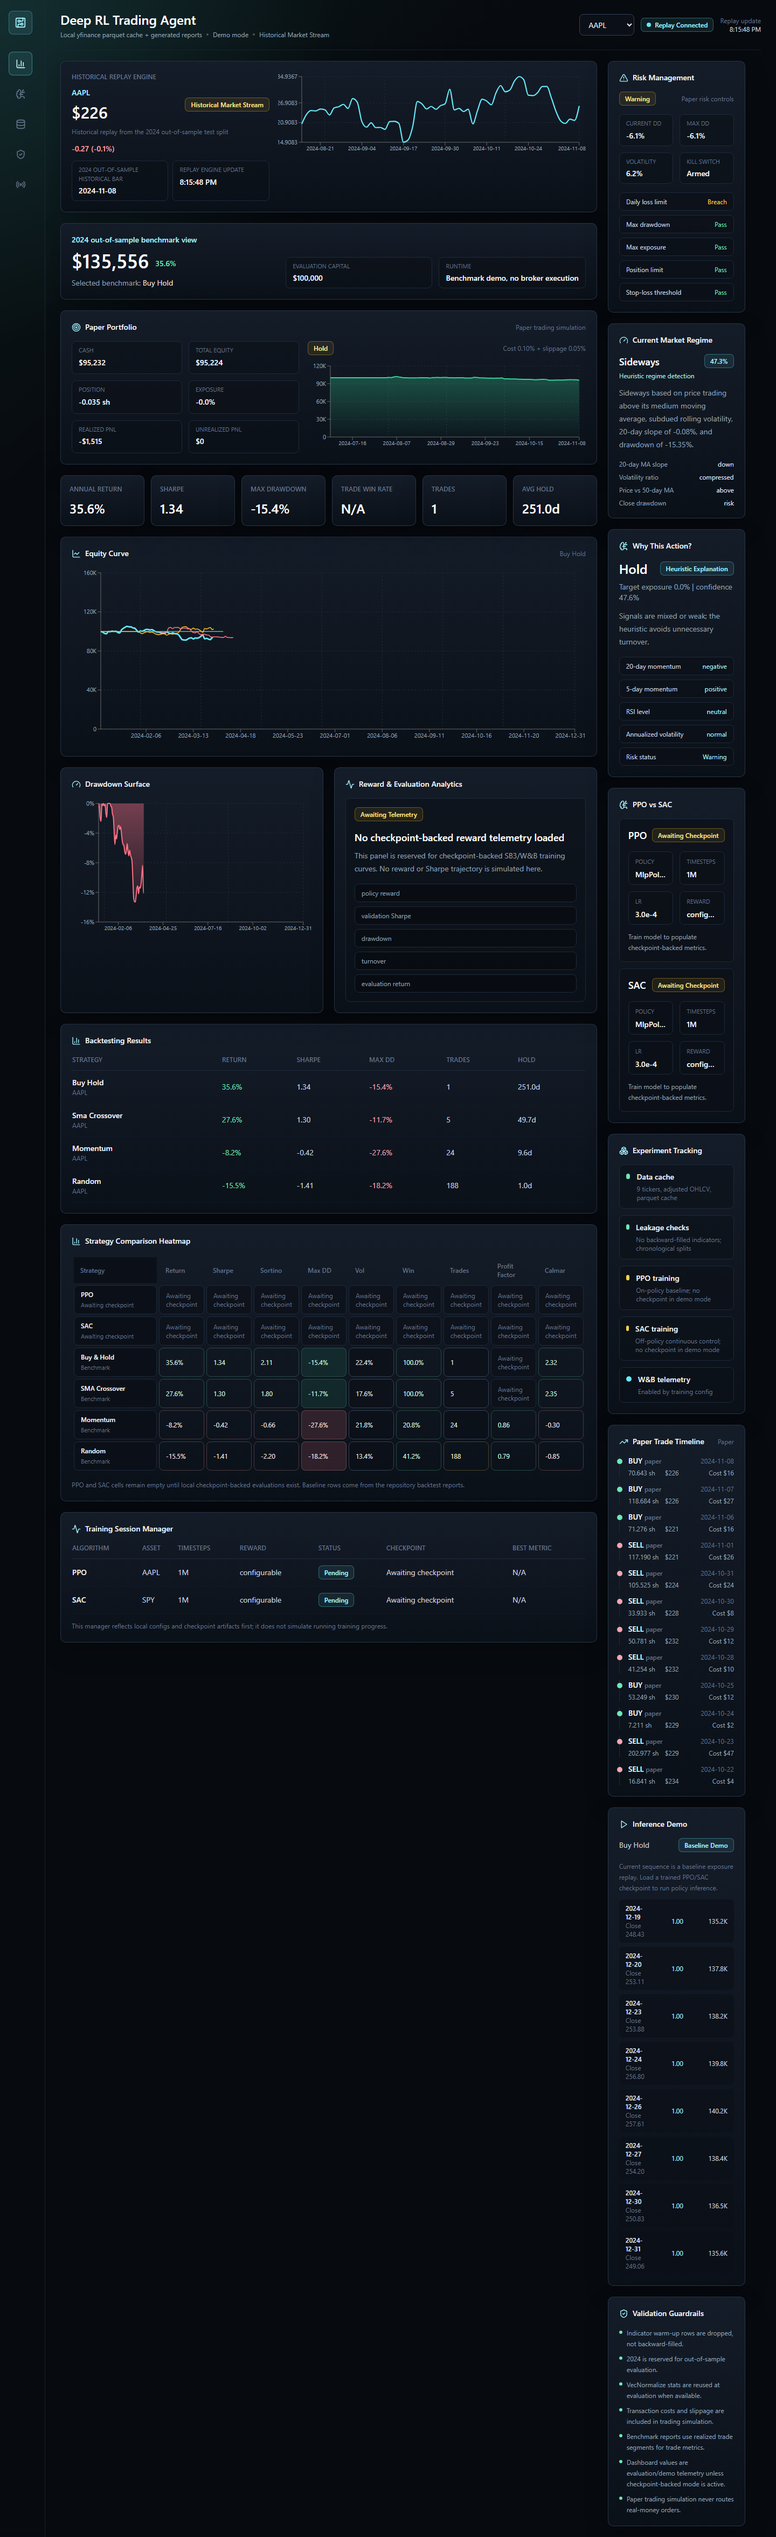
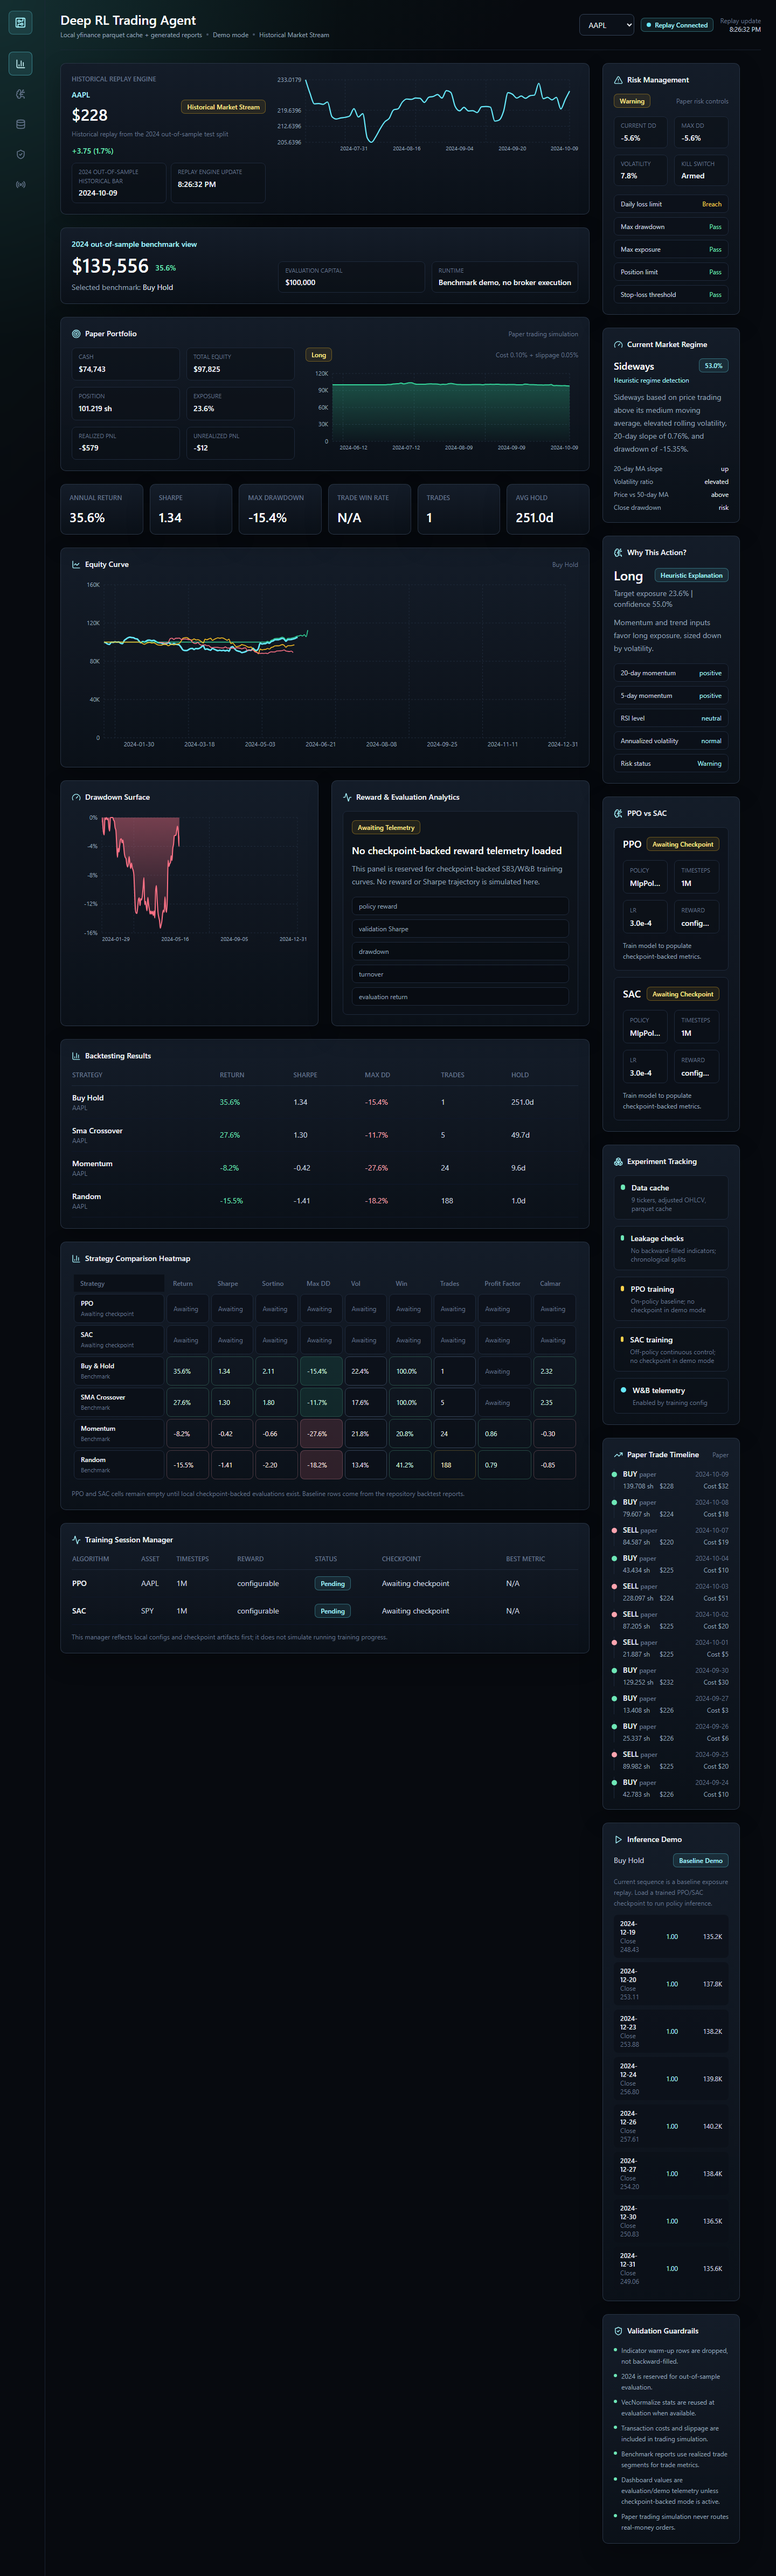
Polish replay dashboard presentation

diff --git a/frontend/src/App.tsx b/frontend/src/App.tsx
@@ -18,8 +18,6 @@ import {
 import {
   Area,
   AreaChart,
-  Bar,
-  BarChart,
   CartesianGrid,
   Line,
   LineChart as ReLineChart,
@@ -165,8 +163,8 @@ export function App() {
           lastUpdate={lastUpdate}
         />
         {data && marketFeed && paperPortfolio && risk && marketRegime && agentSignal ? (
-          <div className="mt-5 grid gap-5 xl:grid-cols-[1.3fr_0.7fr]">
-            <section className="space-y-5">
+          <div className="mt-6 grid gap-6 xl:grid-cols-[1.3fr_0.7fr]">
+            <section className="space-y-6 pb-10">
               <MarketReplayPanel feed={marketFeed} />
               <PortfolioHeader data={data} />
               <PaperPortfolioPanel portfolio={paperPortfolio} />
@@ -174,10 +172,10 @@ export function App() {
               <Panel title="Equity Curve" icon={<LineChart size={17} />} action={data.portfolio.strategy}>
                 <div className="h-[330px]">
                   <ResponsiveContainer width="100%" height="100%">
-                    <ReLineChart data={data.equityCurve} margin={{ top: 10, right: 20, left: 0, bottom: 0 }}>
+                    <ReLineChart data={data.equityCurve} margin={{ top: 12, right: 24, left: 2, bottom: 4 }}>
                       <CartesianGrid stroke="#1F2B3B" strokeDasharray="3 3" />
-                      <XAxis dataKey="date" tick={{ fill: "#94A3B8", fontSize: 11 }} minTickGap={30} />
-                      <YAxis tick={{ fill: "#94A3B8", fontSize: 11 }} tickFormatter={formatCompact} width={54} />
+                      <XAxis dataKey="date" tick={{ fill: "#94A3B8", fontSize: 11 }} minTickGap={54} tickLine={false} axisLine={false} />
+                      <YAxis tick={{ fill: "#94A3B8", fontSize: 11 }} tickFormatter={formatCompact} width={58} tickLine={false} axisLine={false} />
                       <Tooltip content={<ChartTooltip />} />
                       {Object.keys(chartColors).map((strategy) => (
                         <Line
@@ -194,11 +192,11 @@ export function App() {
                   </ResponsiveContainer>
                 </div>
               </Panel>
-              <div className="grid gap-5 lg:grid-cols-2">
+              <div className="grid gap-6 lg:grid-cols-2">
                 <Panel title="Drawdown Surface" icon={<Gauge size={17} />}>
                   <div className="h-[260px]">
                     <ResponsiveContainer width="100%" height="100%">
-                      <AreaChart data={data.drawdownCurve} margin={{ top: 10, right: 16, left: -10, bottom: 0 }}>
+                      <AreaChart data={data.drawdownCurve} margin={{ top: 12, right: 18, left: -4, bottom: 4 }}>
                         <defs>
                           <linearGradient id="drawdownFill" x1="0" y1="0" x2="0" y2="1">
                             <stop offset="0%" stopColor="#FB7185" stopOpacity={0.7} />
@@ -206,8 +204,8 @@ export function App() {
                           </linearGradient>
                         </defs>
                         <CartesianGrid stroke="#1F2B3B" strokeDasharray="3 3" />
-                        <XAxis dataKey="date" tick={{ fill: "#94A3B8", fontSize: 10 }} minTickGap={32} />
-                        <YAxis tick={{ fill: "#94A3B8", fontSize: 11 }} tickFormatter={(v) => `${(Number(v) * 100).toFixed(0)}%`} />
+                        <XAxis dataKey="date" tick={{ fill: "#94A3B8", fontSize: 10 }} minTickGap={58} tickLine={false} axisLine={false} />
+                        <YAxis tick={{ fill: "#94A3B8", fontSize: 11 }} tickFormatter={(v) => `${(Number(v) * 100).toFixed(0)}%`} tickLine={false} axisLine={false} />
                         <Tooltip content={<ChartTooltip percentKeys={["drawdown"]} />} />
                         <Area type="monotone" dataKey="drawdown" stroke="#FB7185" fill="url(#drawdownFill)" strokeWidth={2} />
                       </AreaChart>
@@ -222,7 +220,7 @@ export function App() {
               <StrategyHeatmapPanel data={data} />
               <TrainingSessionsPanel sessions={trainingSessions} />
             </section>
-            <aside className="space-y-5">
+            <aside className="space-y-6 pb-10">
               <RiskPanel risk={risk} />
               <RegimePanel regime={marketRegime} />
               <ExplainabilityPanel signal={agentSignal} />
@@ -375,7 +373,7 @@ function MarketReplayPanel({ feed }: { feed: MarketFeed }) {
   const isHistorical = feed.sourceKind === "historical_replay";
   return (
     <section className="panel p-5">
-      <div className="grid gap-4 lg:grid-cols-[0.9fr_1.4fr]">
+      <div className="grid gap-5 lg:grid-cols-[0.9fr_1.4fr]">
         <div>
           <div className="mb-3 text-xs font-semibold uppercase text-slate-500">
             {isHistorical ? "Historical Replay Engine" : "Delayed Market Snapshot Mode"}
@@ -399,10 +397,10 @@ function MarketReplayPanel({ feed }: { feed: MarketFeed }) {
         </div>
         <div className="h-[160px]">
           <ResponsiveContainer width="100%" height="100%">
-            <ReLineChart data={feed.history} margin={{ top: 8, right: 12, left: -10, bottom: 0 }}>
+            <ReLineChart data={feed.history} margin={{ top: 10, right: 16, left: -4, bottom: 4 }}>
               <CartesianGrid stroke="#1F2B3B" strokeDasharray="3 3" />
-              <XAxis dataKey="time" tick={{ fill: "#94A3B8", fontSize: 10 }} minTickGap={26} />
-              <YAxis tick={{ fill: "#94A3B8", fontSize: 11 }} width={54} domain={["dataMin", "dataMax"]} />
+              <XAxis dataKey="time" tick={{ fill: "#94A3B8", fontSize: 10 }} minTickGap={44} tickLine={false} axisLine={false} />
+              <YAxis tick={{ fill: "#94A3B8", fontSize: 11 }} width={58} domain={["dataMin", "dataMax"]} tickLine={false} axisLine={false} />
               <Tooltip content={<ChartTooltip />} />
               <Line type="monotone" dataKey="price" stroke="#67E8F9" strokeWidth={2.2} dot={false} name="Price" />
             </ReLineChart>
@@ -417,7 +415,7 @@ function PaperPortfolioPanel({ portfolio }: { portfolio: PaperPortfolio }) {
   const pnl = portfolio.realizedPnl + portfolio.unrealizedPnl;
   return (
     <Panel title="Paper Portfolio" icon={<Target size={17} />} action={portfolio.mode}>
-      <div className="grid gap-4 lg:grid-cols-[0.9fr_1.1fr]">
+      <div className="grid gap-5 lg:grid-cols-[0.9fr_1.1fr]">
         <div className="grid grid-cols-2 gap-3">
           <MiniStat label="Cash" value={formatCurrency(portfolio.cash)} />
           <MiniStat label="Total equity" value={formatCurrency(portfolio.totalEquity)} />
@@ -435,7 +433,7 @@ function PaperPortfolioPanel({ portfolio }: { portfolio: PaperPortfolio }) {
           </div>
           <div className="h-[170px]">
             <ResponsiveContainer width="100%" height="100%">
-              <AreaChart data={portfolio.equityCurve} margin={{ top: 8, right: 12, left: -8, bottom: 0 }}>
+              <AreaChart data={portfolio.equityCurve} margin={{ top: 10, right: 16, left: -4, bottom: 4 }}>
                 <defs>
                   <linearGradient id="paperEquity" x1="0" y1="0" x2="0" y2="1">
                     <stop offset="0%" stopColor="#34D399" stopOpacity={0.5} />
@@ -443,8 +441,8 @@ function PaperPortfolioPanel({ portfolio }: { portfolio: PaperPortfolio }) {
                   </linearGradient>
                 </defs>
                 <CartesianGrid stroke="#1F2B3B" strokeDasharray="3 3" />
-                <XAxis dataKey="time" tick={{ fill: "#94A3B8", fontSize: 10 }} minTickGap={26} />
-                <YAxis tick={{ fill: "#94A3B8", fontSize: 11 }} tickFormatter={formatCompact} width={50} />
+                <XAxis dataKey="time" tick={{ fill: "#94A3B8", fontSize: 10 }} minTickGap={46} tickLine={false} axisLine={false} />
+                <YAxis tick={{ fill: "#94A3B8", fontSize: 11 }} tickFormatter={formatCompact} width={54} tickLine={false} axisLine={false} />
                 <Tooltip content={<ChartTooltip />} />
                 <Area type="monotone" dataKey="equity" stroke="#34D399" fill="url(#paperEquity)" strokeWidth={2} name="Paper Equity" />
               </AreaChart>
@@ -545,7 +543,7 @@ function StrategyHeatmapPanel({ data }: { data: DashboardData }) {
   return (
     <Panel title="Strategy Comparison Heatmap" icon={<BarChart3 size={17} />}>
       <div className="overflow-x-auto">
-        <table className="w-full min-w-[880px] border-separate border-spacing-1 text-left text-xs">
+        <table className="w-full min-w-[940px] border-separate border-spacing-1 text-left text-xs">
           <thead className="text-slate-500">
             <tr>
               <th className="sticky left-0 z-10 bg-graphite-900 px-3 py-2 font-medium">Strategy</th>
@@ -567,7 +565,7 @@ function StrategyHeatmapPanel({ data }: { data: DashboardData }) {
                   const value = row.metrics[metric];
                   return (
                     <td key={`${row.strategy}-${metric}`} className={`rounded-lg border px-3 py-2 ${heatmapCellClass(metric, value)}`}>
-                      {value === null ? <span className="text-slate-500">Awaiting checkpoint</span> : metricDisplay(metric, value)}
+                      {value === null ? <span className="text-slate-500">Awaiting</span> : metricDisplay(metric, value)}
                     </td>
                   );
                 })}
@@ -692,28 +690,6 @@ function ExperimentPanel({ data }: { data: DashboardData }) {
   );
 }
 
-function TradeTimeline({ events }: { events: DashboardData["tradeTimeline"] }) {
-  return (
-    <Panel title="Trade Timeline" icon={<TrendingUp size={17} />}>
-      <div className="space-y-3">
-        {events.map((event) => (
-          <div key={`${event.date}-${event.equity}`} className="relative border-l border-slate-800 pl-4">
-            <div className="absolute -left-[5px] top-1.5 h-2.5 w-2.5 rounded-full bg-cyan-300" />
-            <div className="flex items-center justify-between gap-3">
-              <div className="text-sm font-medium text-slate-100">{event.side}</div>
-              <div className="text-xs text-slate-500">{event.date}</div>
-            </div>
-            <div className="mt-1 flex justify-between text-xs text-slate-400">
-              <span>Position {event.position.toFixed(2)}</span>
-              <span>{formatCurrency(event.equity)}</span>
-            </div>
-          </div>
-        ))}
-      </div>
-    </Panel>
-  );
-}
-
 function PaperTradeTimeline({ trades }: { trades: PaperPortfolio["trades"] }) {
   return (
     <Panel title="Paper Trade Timeline" icon={<TrendingUp size={17} />} action="paper">
@@ -803,10 +779,10 @@ function TrainingAnalyticsPanel({ data }: { data: DashboardData }) {
   return (
     <div className="h-[260px]">
       <ResponsiveContainer width="100%" height="100%">
-        <ReLineChart data={analytics.points} margin={{ top: 10, right: 16, left: -10, bottom: 0 }}>
+        <ReLineChart data={analytics.points} margin={{ top: 12, right: 18, left: -4, bottom: 4 }}>
           <CartesianGrid stroke="#1F2B3B" strokeDasharray="3 3" />
-          <XAxis dataKey="step" tick={{ fill: "#94A3B8", fontSize: 10 }} tickFormatter={formatCompact} />
-          <YAxis tick={{ fill: "#94A3B8", fontSize: 11 }} />
+          <XAxis dataKey="step" tick={{ fill: "#94A3B8", fontSize: 10 }} tickFormatter={formatCompact} tickLine={false} axisLine={false} />
+          <YAxis tick={{ fill: "#94A3B8", fontSize: 11 }} tickLine={false} axisLine={false} />
           <Tooltip content={<ChartTooltip />} />
           <Line type="monotone" dataKey="ppoReward" stroke="#67E8F9" strokeWidth={2} dot={false} name="PPO Reward" />
           <Line type="monotone" dataKey="sacReward" stroke="#34D399" strokeWidth={2} dot={false} name="SAC Reward" />

diff --git a/README.md b/README.md
@@ -83,20 +83,74 @@ npm run dev
 
 Open `http://127.0.0.1:5173`.
 
-![Dashboard overview with Historical Replay Engine](docs/assets/dashboard-overview.png)
-
-Mobile-responsive view:
-
-![Dashboard mobile Historical Replay view](docs/assets/dashboard-mobile.png)
+<p align="center">
+  <img src="docs/assets/dashboard-overview.png" alt="Dashboard overview with Historical Replay Engine" width="920">
+</p>
 
 The dashboard includes a Historical Replay Engine, paper portfolio, equity curves, drawdown visualization, risk management guardrails, market regime detection, action explainability, PPO/SAC readiness, training session manager, strategy heatmap, experiment tracking, trade timeline, validation guardrails, and inference demo mode. In demo mode, panels are explicitly based on benchmark reports and local cached data rather than trained model claims.
 
 The product layer is deliberately not a real-money trading system:
 
 - `Historical Market Stream` replays cached 2024 out-of-sample market bars through the dashboard update loop.
-- `Delayed Market Snapshot` can be attempted with yfinance by setting `RL_TRADING_FEED_MODE=snapshot`; historical replay remains the default for reproducible demos.
+- `Delayed Market Snapshot` can be attempted with yfinance by setting `RL_TRADING_FEED_MODE=snapshot`; `RL_TRADING_FEED_MODE=live` is accepted as a compatibility alias but is still labeled as delayed snapshot mode in the UI.
 - `Paper trading simulation` applies transaction costs and slippage, tracks exposure and PnL, and blocks additional exposure when risk limits are breached.
 - PPO/SAC performance panels show `Awaiting checkpoint` until trained model artifacts and evaluation outputs exist.
+
+## Visual Walkthrough
+
+### Historical Replay Engine
+
+The market panel names the data basis directly: cached 2024 out-of-sample bars replayed through the product event loop. It does not present historical data as current-market streaming.
+
+<p align="center">
+  <img src="docs/assets/dashboard-replay-engine.png" alt="Historical Replay Engine panel" width="860">
+</p>
+
+### Paper Portfolio
+
+The paper portfolio shows cash, position, exposure, realized/unrealized PnL, total equity, costs, slippage, and simulated fills. It never implies broker execution.
+
+<p align="center">
+  <img src="docs/assets/dashboard-paper-portfolio.png" alt="Paper portfolio panel" width="860">
+</p>
+
+### Risk And Regime
+
+Risk guardrails, regime detection, and action explanation are displayed as engineering controls and heuristic diagnostics, not profitability claims.
+
+<p align="center">
+  <img src="docs/assets/dashboard-risk-regime.png" alt="Risk management, regime detection, and explainability panels" width="860">
+</p>
+
+### Strategy Comparison Heatmap
+
+PPO and SAC remain `Awaiting checkpoint` until real checkpoint-backed evaluations are available; baseline rows come from generated reports.
+
+<p align="center">
+  <img src="docs/assets/dashboard-strategy-heatmap.png" alt="Strategy comparison heatmap" width="860">
+</p>
+
+### PPO vs SAC
+
+The model comparison panel surfaces checkpoint readiness without inventing policy performance.
+
+<p align="center">
+  <img src="docs/assets/dashboard-ppo-sac.png" alt="PPO versus SAC readiness panel" width="620">
+</p>
+
+### Training Session Manager
+
+Training sessions are derived from local configs and checkpoint artifacts; the dashboard does not simulate running training progress.
+
+<p align="center">
+  <img src="docs/assets/dashboard-training-session-manager.png" alt="Training session manager" width="860">
+</p>
+
+### Mobile View
+
+<p align="center">
+  <img src="docs/assets/dashboard-mobile.png" alt="Mobile Historical Replay dashboard view" width="360">
+</p>
 
 ## Quick Start
 

diff --git a/docs/ARCHITECTURE.md b/docs/ARCHITECTURE.md
@@ -32,7 +32,7 @@ flowchart LR
 - `TradingEnv` exposes a continuous target exposure action, which lets PPO and SAC learn position sizing instead of selecting from a tiny discrete menu.
 - Observations include only current and past data. Rolling indicators are computed forward in time and backtesting uses walk-forward splits to avoid future leakage.
 - Rewards are switchable so experiments can compare raw risk-adjusted PnL against Sharpe and Sortino shaping.
-- Evaluation is separated from training. Backtesting, metrics, replay, and visualization live under `evaluation/` so the training code does not become a reporting script.
+- Evaluation is separated from training. Backtesting, metrics, replay, and visualization reside under `evaluation/` so the training code does not become a reporting script.
 - Policies trained with `VecNormalize` are evaluated and replayed with saved normalization statistics when `models/vecnormalize.pkl` is present.
 
 ## System Safeguards
@@ -75,7 +75,7 @@ The FastAPI + React dashboard is a deployment-oriented view over the ML system:
 
 `backend/quant_product.py` owns the historical replay product state. The default implementation uses cached 2024 out-of-sample test-period bars as a `Historical Market Stream`. This gives the dashboard event-driven update semantics without implying current market streaming.
 
-An opt-in yfinance delayed snapshot path is available with `RL_TRADING_FEED_MODE=snapshot`; if it cannot fetch data, the product remains safe to run in historical replay mode.
+An opt-in yfinance delayed snapshot path is available with `RL_TRADING_FEED_MODE=snapshot`; `RL_TRADING_FEED_MODE=live` is accepted as a compatibility alias but still renders as delayed snapshot mode. If snapshot data cannot be fetched, the product remains safe to run in historical replay mode.
 
 The primary transport is:
 

diff --git a/docs/DEMO_GUIDE.md b/docs/DEMO_GUIDE.md
@@ -50,7 +50,7 @@ Open `http://127.0.0.1:5173`.
 
 Demo the product in this order:
 
-1. Select a symbol and show the Historical Replay Engine. Call out the feed label, usually `Historical Market Stream`, and the source bar date from the 2024 out-of-sample test split. Optional yfinance delayed snapshot mode can be enabled with `RL_TRADING_FEED_MODE=snapshot`.
+1. Select a symbol and show the Historical Replay Engine. Call out the feed label, usually `Historical Market Stream`, and the source bar date from the 2024 out-of-sample test split. Optional yfinance delayed snapshot mode can be enabled with `RL_TRADING_FEED_MODE=snapshot`; if `RL_TRADING_FEED_MODE=live` is used, the UI still labels it as delayed snapshot mode.
 2. Show the paper portfolio panel: cash, exposure, PnL, equity curve, and paper execution assumptions.
 3. Show risk management: drawdown, volatility, limits, risk status, and guardrail pass/fail states.
 4. Show market regime and `Why this action?`, explicitly describing them as heuristic unless checkpoint inference is available.

diff --git a/docs/DATA_CARD.md b/docs/DATA_CARD.md
@@ -58,7 +58,7 @@ The manifest is written to `reports/data_manifest.csv` and includes row counts, 
 The product API exposes feed mode labels so demos remain honest:
 
 - `Historical Market Stream`: cached 2024 out-of-sample bars replayed through `/api/replay/{ticker}` and `/ws/replay/{ticker}`.
-- `Delayed Market Snapshot`: optional yfinance snapshot mode, enabled with `RL_TRADING_FEED_MODE=snapshot`.
+- `Delayed Market Snapshot`: optional yfinance snapshot mode, enabled with `RL_TRADING_FEED_MODE=snapshot`. `RL_TRADING_FEED_MODE=live` is treated as a compatibility alias and still renders as delayed snapshot mode.
 - `Cached Demo Mode`: static local cache/report state without replay transport.
 
 The current implementation defaults to `Historical Market Stream` for selected symbols in the default universe. Delayed snapshot mode is intentionally opt-in so tests and demos remain reproducible when network data is unavailable or rate-limited.

diff --git a/docs/DASHBOARD.md b/docs/DASHBOARD.md
@@ -11,7 +11,7 @@ Feed labels are separate from runtime mode:
 
 - `Historical Market Stream`: cached 2024 out-of-sample bars replayed through the market replay engine.
 - `Cached Demo Mode`: static local cache/report state.
-- `Delayed Market Snapshot`: optional yfinance snapshot mode, enabled with `RL_TRADING_FEED_MODE=snapshot`.
+- `Delayed Market Snapshot`: optional yfinance snapshot mode, enabled with `RL_TRADING_FEED_MODE=snapshot`. `RL_TRADING_FEED_MODE=live` is accepted as a compatibility alias, but the UI still labels it as delayed snapshot mode.
 
 ## Backend
 
